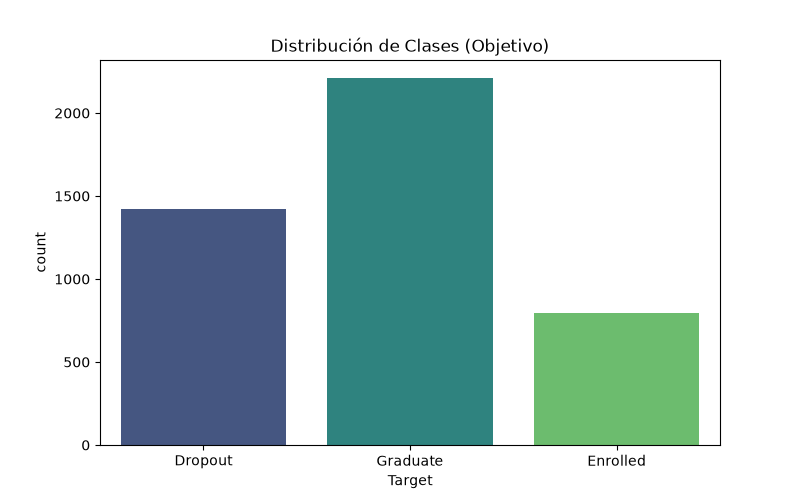
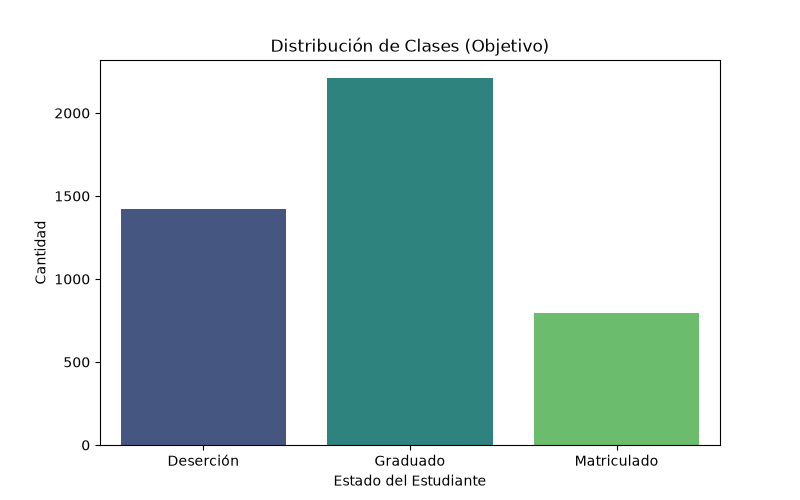
style(ml): traducir graficos EDA al español

diff --git a/notebooks/src/eda.py b/notebooks/src/eda.py
@@ -8,8 +8,16 @@ from notebooks.src.config import DIRECTORIO_GRAFICOS
 def fase_2_analisis_exploratorio(datos: pd.DataFrame):
     print('\n=== FASE 2: ANÁLISIS EXPLORATORIO (EDA) ===')
     plt.figure(figsize=(8, 5))
-    sns.countplot(data=datos, x='Target', palette='viridis')
+    
+    # Crear una copia temporal para traducir las etiquetas del plot
+    datos_plot = datos.copy()
+    mapa_traduccion = {'Dropout': 'Deserción', 'Graduate': 'Graduado', 'Enrolled': 'Matriculado'}
+    datos_plot['Target_ES'] = datos_plot['Target'].map(mapa_traduccion)
+    
+    sns.countplot(data=datos_plot, x='Target_ES', hue='Target_ES', palette='viridis', legend=False)
     plt.title('Distribución de Clases (Objetivo)')
+    plt.xlabel('Estado del Estudiante')
+    plt.ylabel('Cantidad')
     plt.savefig(os.path.join(DIRECTORIO_GRAFICOS, 'distribucion_clases.png'))
     plt.close()
     print('  -> Gráfico de distribución de clases guardado.')

diff --git a/notebooks/src/model.py b/notebooks/src/model.py
@@ -8,7 +8,7 @@ from sklearn.feature_selection import SelectKBest, f_classif
 from sklearn.linear_model import LogisticRegression
 from sklearn.ensemble import RandomForestClassifier
 from sklearn.model_selection import GridSearchCV
-from sklearn.metrics import accuracy_score, confusion_matrix, classification_report, roc_auc_score
+from sklearn.metrics import confusion_matrix, classification_report, roc_auc_score
 from notebooks.src.config import DIRECTORIO_GRAFICOS, DIRECTORIO_MODELOS
 
 def fase_4_entrenamiento_y_experimentos(X_entrenamiento, y_entrenamiento, X_prueba, y_prueba):